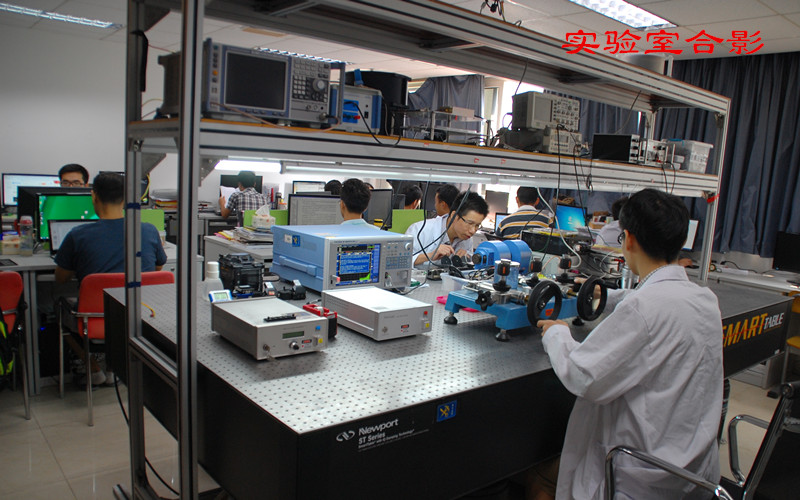
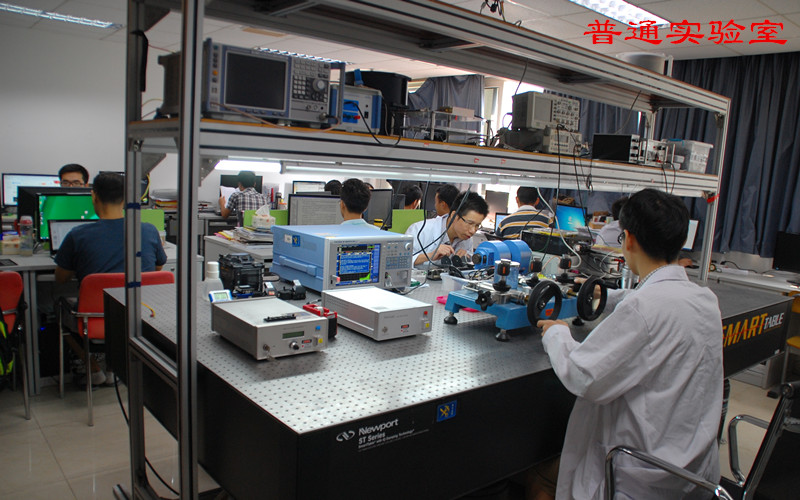
Index photoes modified

Changed region(s): [[0.6875, 0.03, 1.0, 0.12]]

diff --git a/index.md b/index.md
@@ -3,7 +3,7 @@ layout: index
 carousel: 
   - image: group-1-800x503.jpg
   - image: labrory-800x500.jpg
-  - image: labrory-c-800x500.png
+  - image: labrory-s-800x500.jpg
 ---
 
 通知通告
